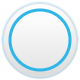
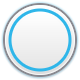
Menu: the round buttons get a clear border again, 2 pixels of the theme's strong edge colour made darker, even all round the rim, with a white line inside it; the soft shadow stays outside it (Dolphin: Home's round buttons in the default theme and Bookshelf, 16:9)

Changed region(s): [[0.025, 0.025, 0.975, 0.975]]

diff --git a/src/art/skinpaint.cpp b/src/art/skinpaint.cpp
@@ -224,10 +224,11 @@ struct Painter {
         // border (uneven, thicker at the foot) on a tester's TV.
         if (over) c.shadow(3, 3, 74, 74, 37, 3.0f, glow, 2.0f);
         c.shadow(3, 4, 74, 74, 37, 2.5f, shadow, 2.0f);
-        // The rim: the card's colour shaded top to bottom, a fine light edge
-        // round it.
+        // The rim: the card's colour shaded top to bottom, a clear edge the
+        // same all round it and a white line just inside.
         c.rounded_gradient(3, 3, 74, 74, 37, shade(card, 1.0f), shade(card, 0.86f));
-        c.ring(40, 40, 37, 1.0f, Mix(edge, card, 0.35f));
+        c.ring(40, 40, 37, 2.0f, Mix(edge_strong, Rgba{0, 0, 0, 255}, 0.3f));
+        c.ring(40, 40, 35.0f, 1.0f, Rgba{255, 255, 255, 200});
         // The accent's ring, and the face inside it, light at the top.
         c.ring(40, 40, 31.5f, over ? 4.0f : 3.2f, accent);
         c.rounded_gradient(11.5f, 11.5f, 57, 57, 28.5f, shade(card, 1.04f), shade(card, 0.90f));
